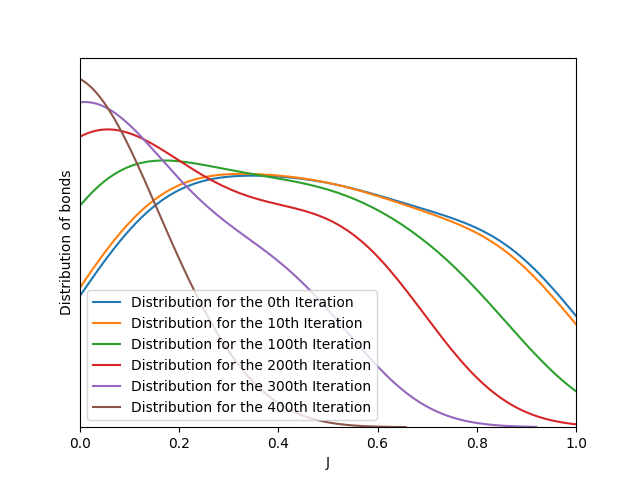
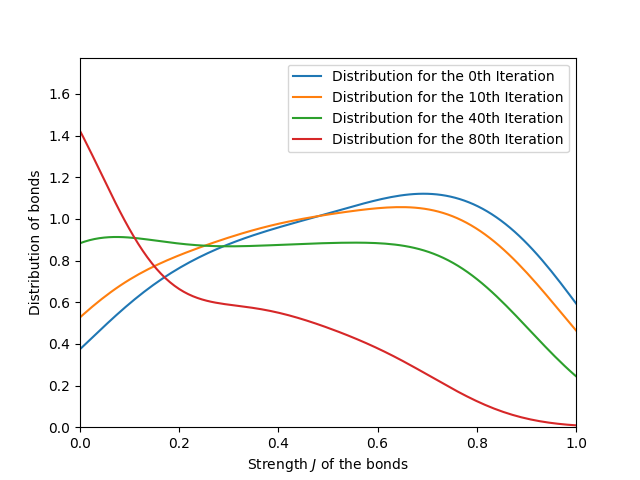
Showed fit between our method and theoretical model.

diff --git a/flow.py b/flow.py
@@ -5,55 +5,51 @@ import seaborn as sns
 import statsmodels.api as sm
 from tqdm import tqdm
 
-length=1000
-val=np.zeros(length)
-matrix = Random_chain(length,1,0)
+def generator():
+    while matrix.end_rg == 0:
+        yield
 
+length = 200
+matrix = Random_chain(length,1)
+eta = []
 leg=[]
+i=0
 
-plt.figure(1)
-for i in tqdm(range(int(length/2))):
-    if i == 0 or i==10 or i%100==0:
+for _ in tqdm(generator()):
+    if i == 0 or i==10 or i%40==0:
         plt.figure(1)
         sns.kdeplot(matrix.bond_matrix[matrix.bond_matrix != 0], bw_method=.5)
         leg = np.append(leg, 'Distribution for the '+str(i)+'th Iteration')
+    eta = np.append(eta, matrix.eta)
     matrix.renormalization()
-    
-plt.figure(2)
-dens = sm.nonparametric.KDEUnivariate(matrix.bond_matrix[matrix.bond_matrix != 0])
-dens.fit(bw=.5)
-x =np.linspace(0,1,100)
-y = dens.evaluate(x)
+    i+=1
 
-pp = np.sort(-np.log(np.abs(matrix.bond_matrix[matrix.bond_matrix != 0])))
+step = 1
+parts = int(len(eta)/step)
+sum = []
 
-step = 10
-parts = int(len(pp)/step)
-p=np.linspace(0,1,parts)
-ppp = []
-for i in tqdm(np.arange(0, len(pp), step)):
-    ppp = np.append(ppp, np.sum(pp[i:]))
-    
+for i in tqdm(np.arange(0, len(eta), step)):
+    val = np.sum(eta[i:])
+    if val != 0:
+        sum = np.append(sum, val)
+
+rescaled_range=np.linspace(0,1,len(sum))
+
+plt.figure(1)
 plt.figure(1)
 plt.xlim(0, 1)
 plt.ylabel('Distribution of bonds')
-plt.xlabel('J')
-plt.yticks([])
+plt.xlabel('Strength $J$ of the bonds')
 plt.legend(leg)
 plt.savefig('Figures/distribution.png')
 
 plt.figure(2)
-plt.yticks([])
-plt.ylabel('Distribution of bonds')
-plt.plot(x,y)
-plt.plot(x, np.exp(-x),'--')
-plt.xlabel('J')
-plt.savefig('Figures/singlet_dist.png')
 
-plt.figure(3)
-plt.plot(p,ppp)
-plt.plot(p,np.exp(-p), '--')
+plt.plot(rescaled_range, sum/sum.max())
+plt.plot(rescaled_range, np.exp(-5*rescaled_range), '--r')
 plt.yscale('log')
-plt.savefig('Figures/maybe.png')
+plt.ylabel('Value of $\eta$ during the SDRG')
+plt.xlabel('Iteration step (rescaled).')
+plt.savefig('Figures/fixed_dist.png')
 
 plt.show()
